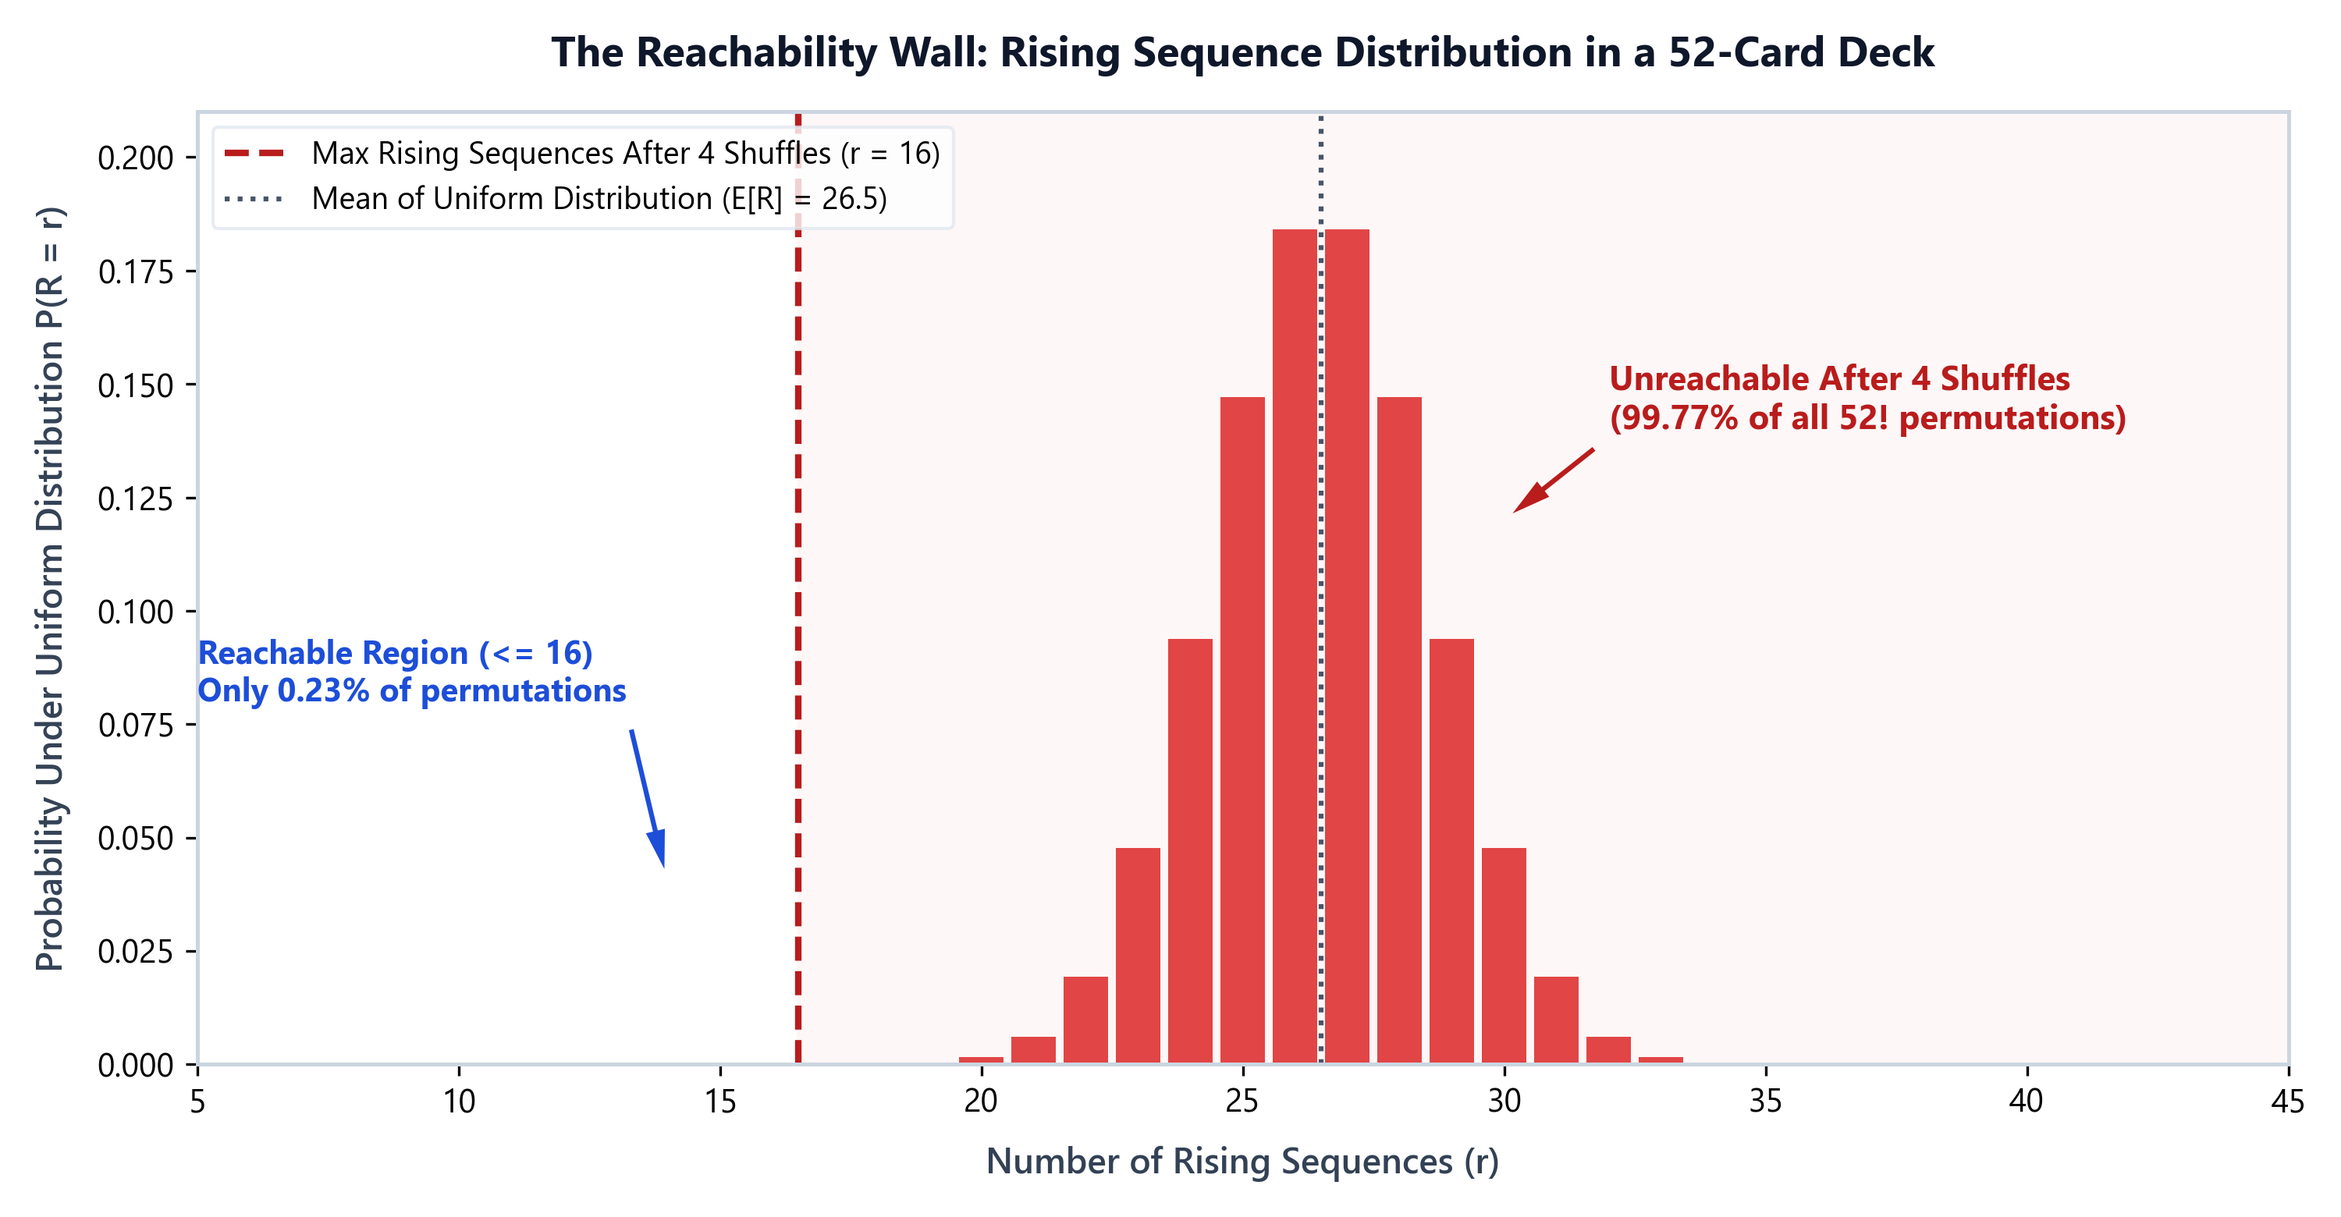
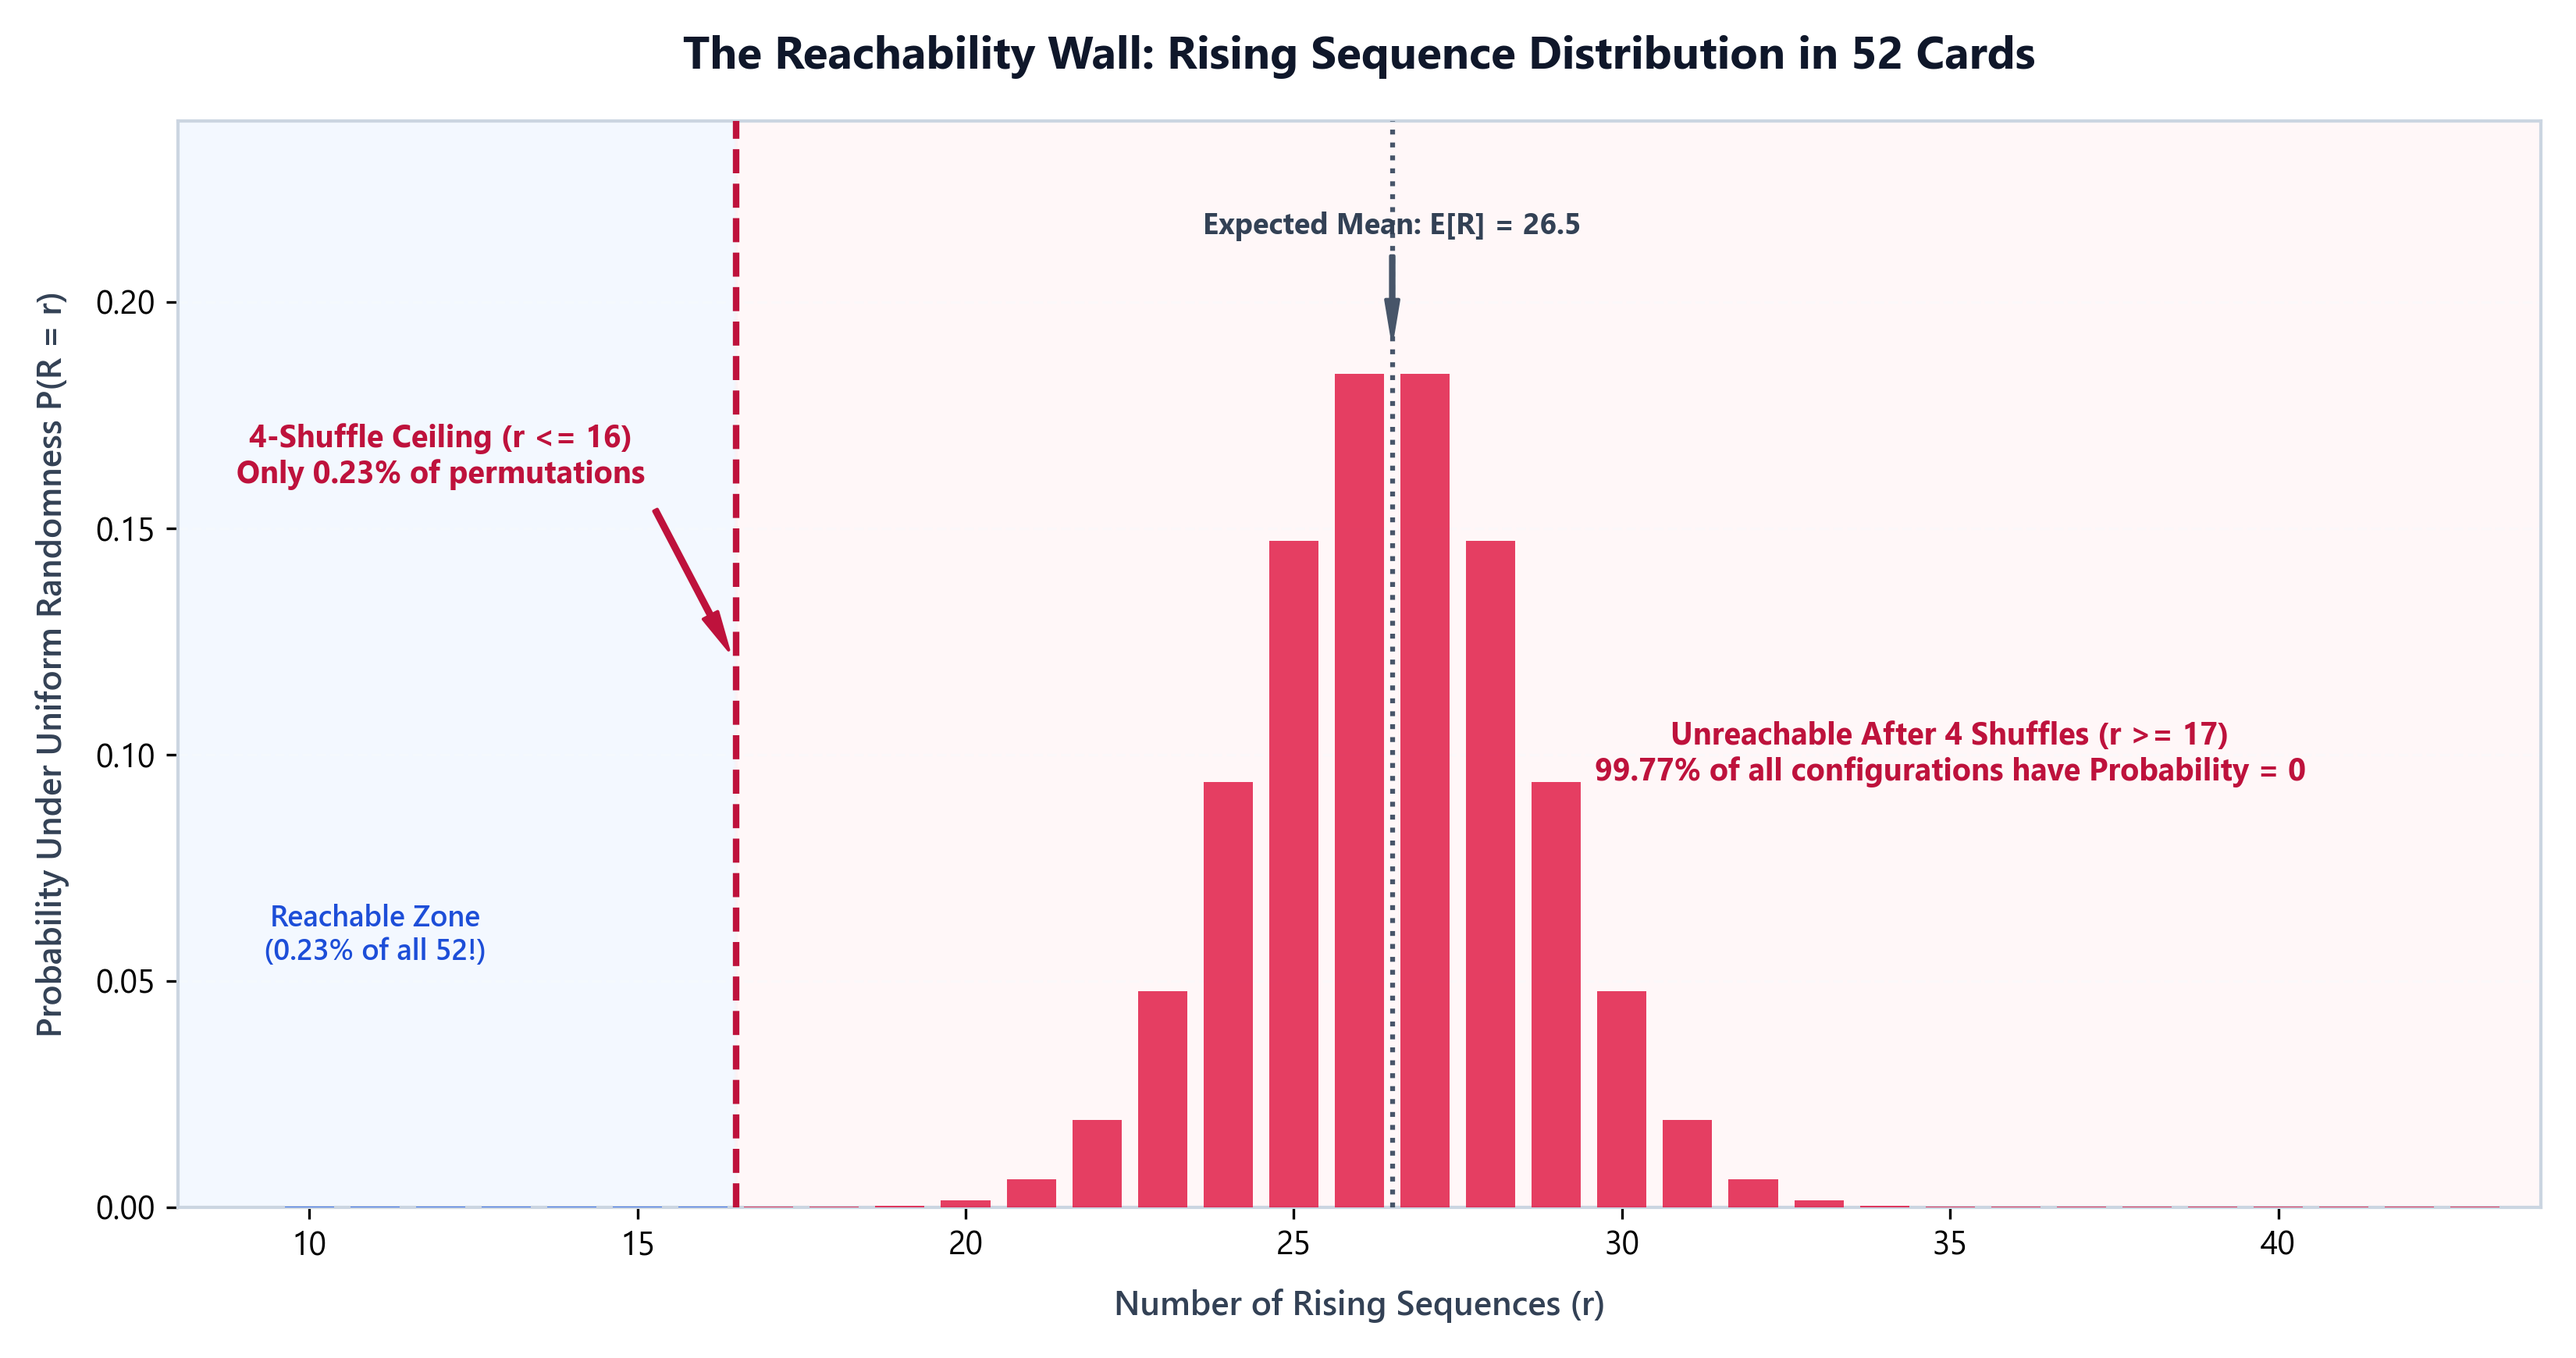
feat(maths): polish diagrams and refine concluding sentence in shuffle essay

diff --git a/src/content/maths/seven-shuffles/index.md b/src/content/maths/seven-shuffles/index.md
@@ -366,4 +366,4 @@ Physical mixing is deceptive. To human vision, three or four riffle shuffles loo
 
 The Gilbert-Shannon-Reeds model shows why local disorder fails to randomize the deck. Each riffle shuffle at most doubles the number of rising sequences. Because powers of two grow moderately and a typical permutation contains 26 or 27 rising sequences, the first four shuffles leave the deck confined to less than a quarter of a percent of all configurations. It is not that the cards are slowly approaching uniform distribution. Until five or six shuffles have occurred, the vast majority of possible orderings have probability strictly zero.
 
-The abruptness of the transition is what makes the cutoff mathematically interesting. The total variation distance does not leak away steadily over time. It stays pinned at 1.000 for four shuffles, begins to move at five, and drops sharply through seven, after which each extra shuffle roughly halves the remaining bias. If you want a random deck of 52 cards, seven riffles is where the mathematics finally catches up with the table.
+The abruptness of the transition is what makes the cutoff mathematically interesting. The total variation distance does not leak away steadily over time. It stays pinned at 1.000 for four shuffles, begins to move at five, and drops sharply through seven, after which each extra shuffle roughly halves the remaining bias. For a 52-card deck, seven shuffles is not an arbitrary rule of thumb. It is the exact boundary where order gives way to chance.
